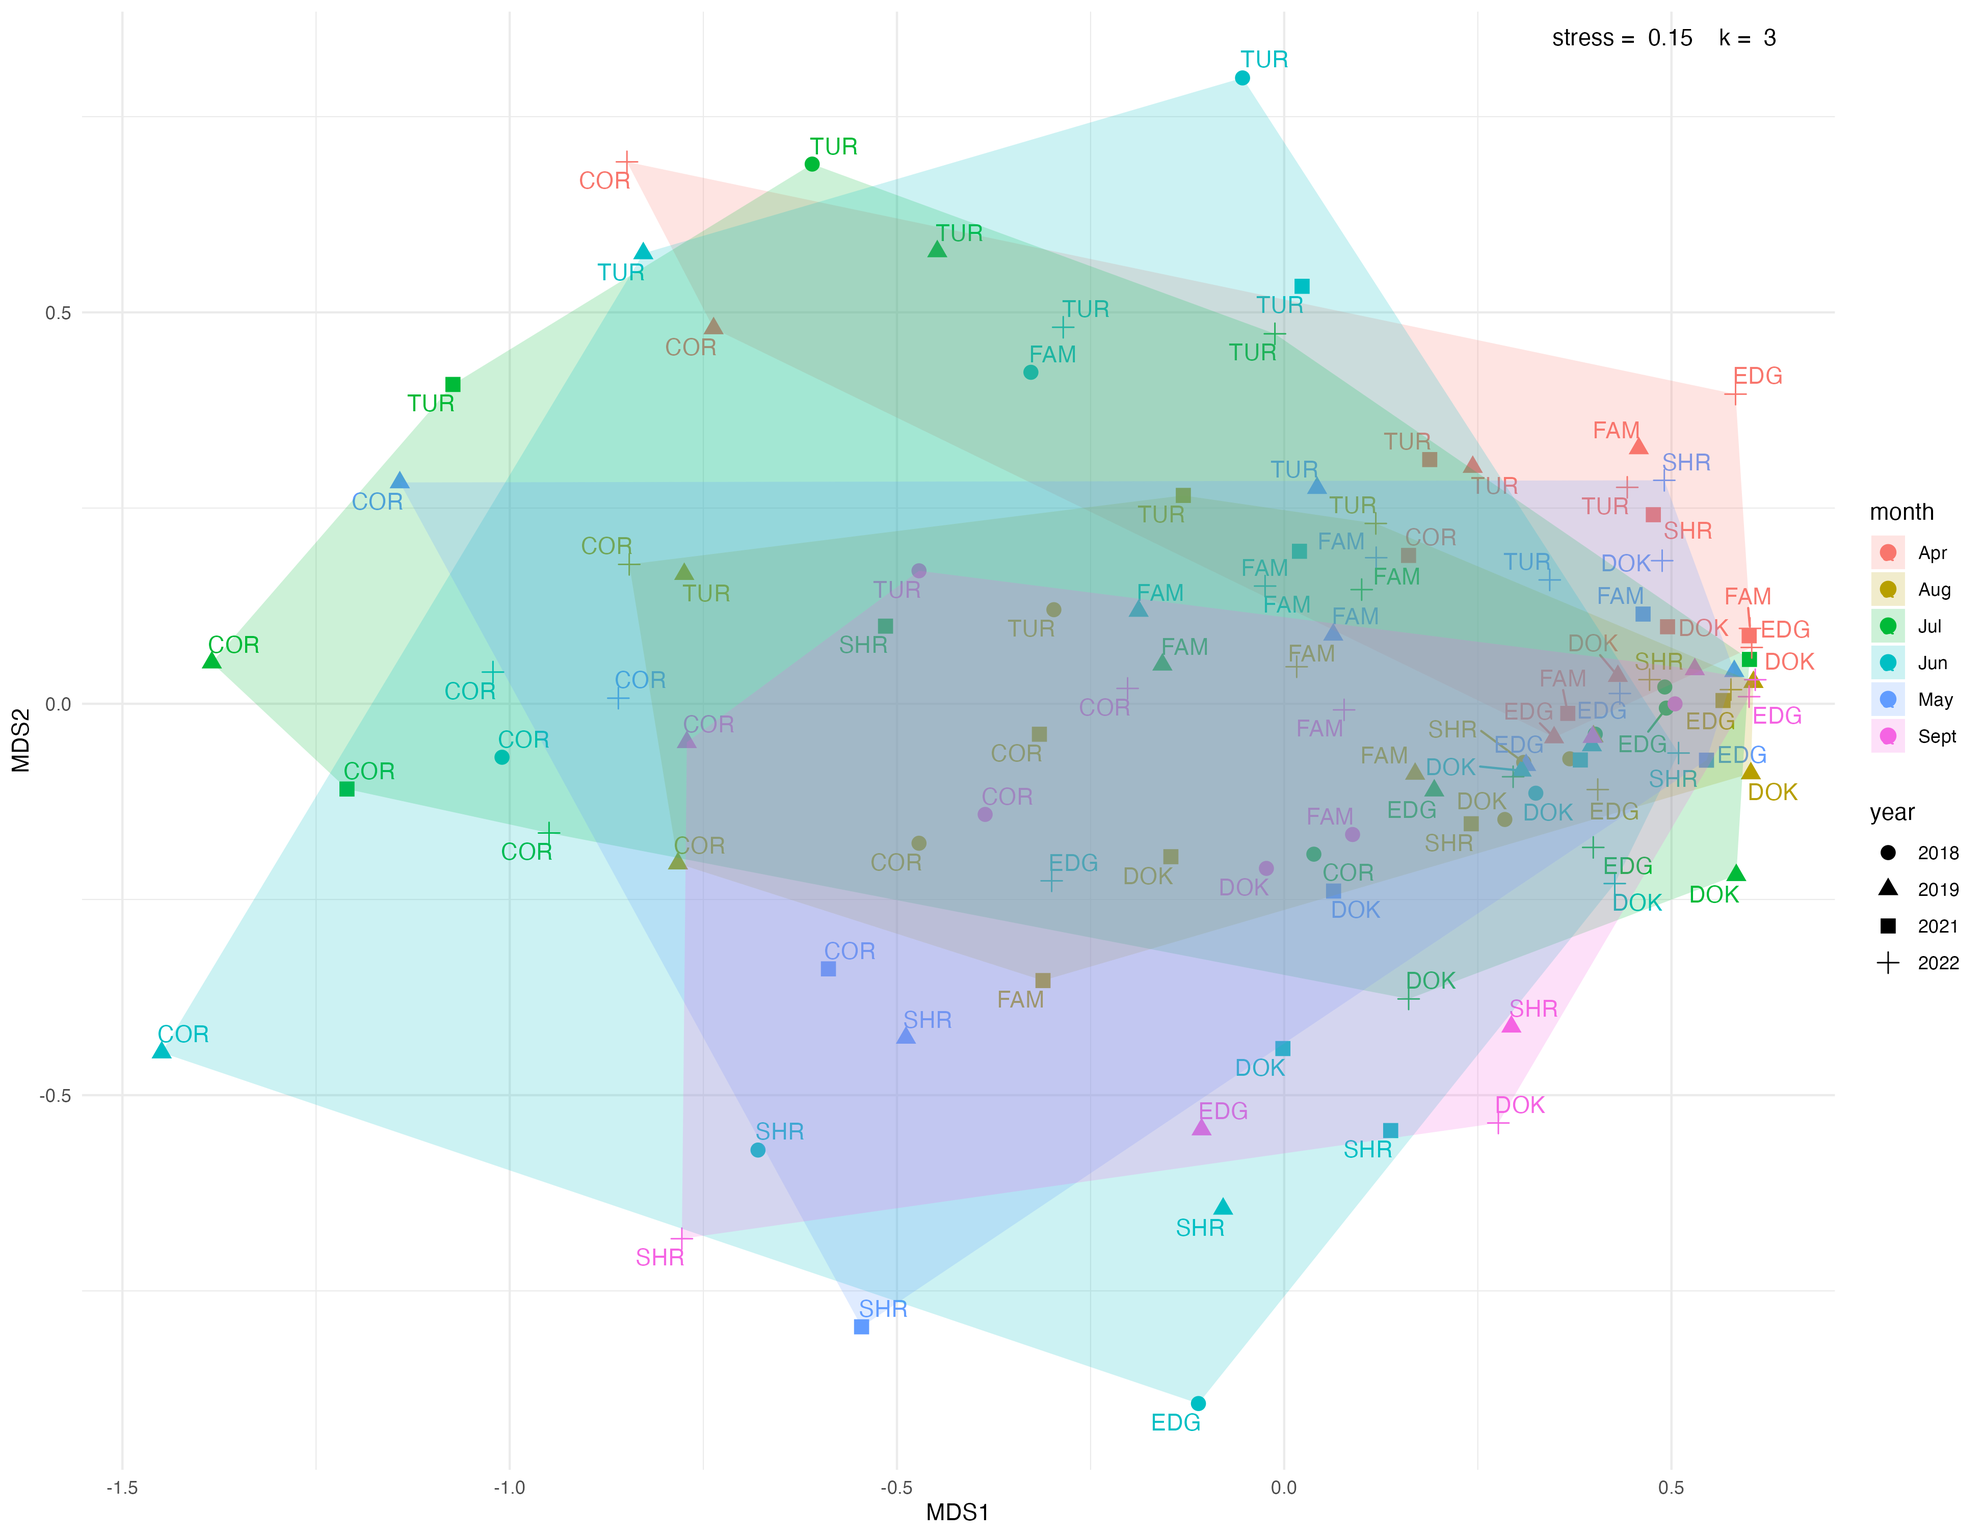
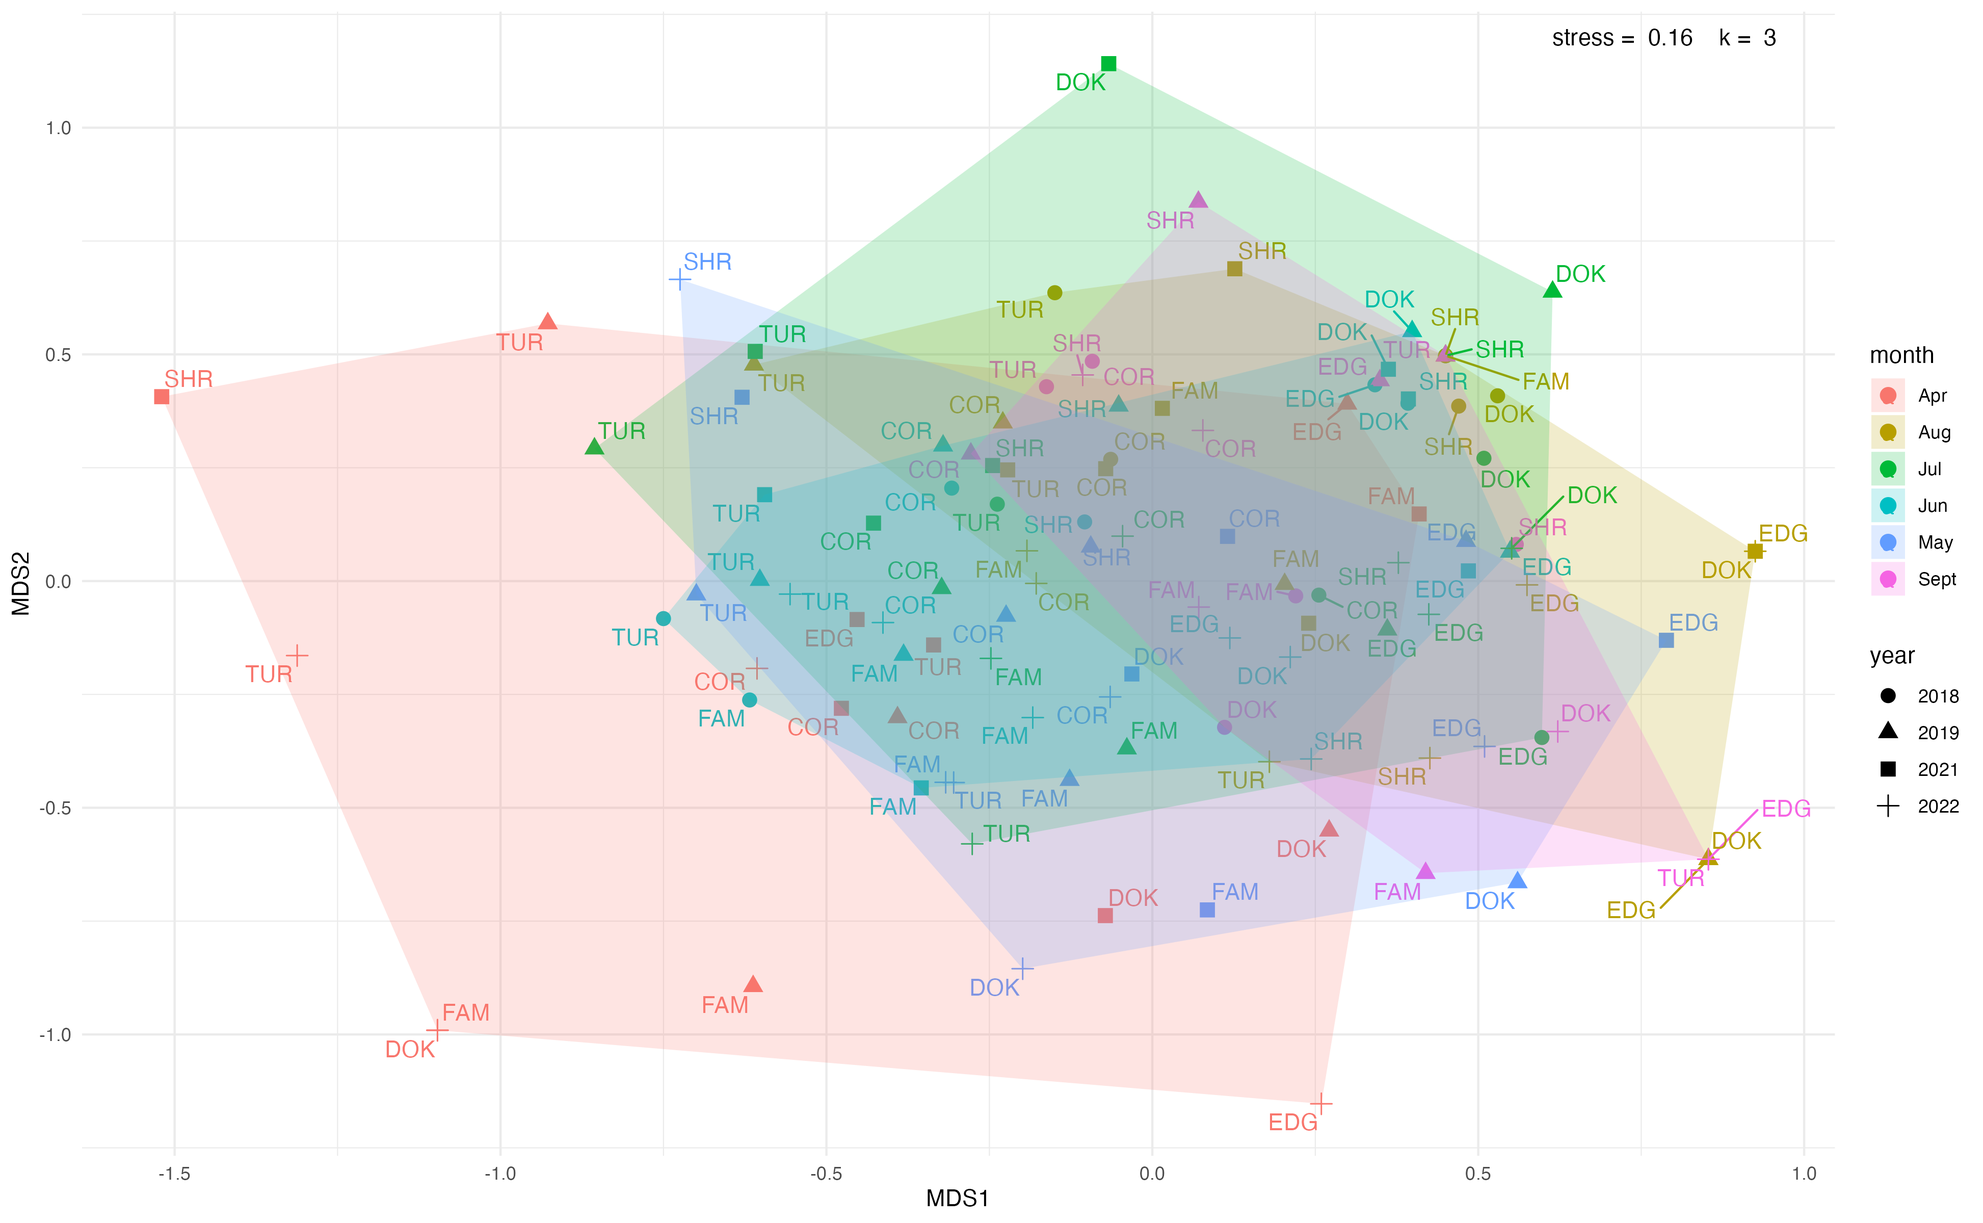
updated fish analysis with uncorrected matrix

diff --git a/docs/fish_results.html b/docs/fish_results.html
@@ -11,7 +11,7 @@
 
 <meta name="author" content="Emily Bishop" />
 
-<meta name="date" content="2024-03-13" />
+<meta name="date" content="2024-05-01" />
 
 <title>Fish Results</title>
 
@@ -248,6 +248,9 @@ $(document).ready(function () {
   <a href="index.html">Home</a>
 </li>
 <li>
+  <a href="data_matrices.html">Data Matrices</a>
+</li>
+<li>
   <a href="FD_overview.html">FD Overview</a>
 </li>
 <li>
@@ -270,7 +273,7 @@ $(document).ready(function () {
 
 <h1 class="title toc-ignore">Fish Results</h1>
 <h4 class="author">Emily Bishop</h4>
-<h4 class="date">2024-03-13</h4>
+<h4 class="date">2024-05-01</h4>
 
 </div>
 
@@ -290,7 +293,7 @@ continuous variable while the others are categorical.</p>
 <p>I used ordinations to view the differences between data points,
 specifically NMDS and PCoA. Both of these types of ordinations allow
 specification of a distance measure, which is good because euclidian
-distances aren’t appropriate for every data type (e.g. species
+distances aren’t appropriate for every data type (e.g., species
 abundances). These two methods differ in how they determine the axes.
 PCoAs use eigenanalysis, thereby imposing a linear relationship between
 samples, while NMDS uses an iterative, non-metric (rank-order), approach
@@ -301,8 +304,9 @@ for example abundance counts of different species.</p>
 <h2>NMDS representing abundances by site</h2>
 <p>NMDS is a distance based ordination technique. In this ordination,
 the space between the points represents the distance (dissimilarity)
-between them. Here I used Bray-curtis distances, a common method for
-abundance data.</p>
+between them. To create this plot, I used bray-curtis distances. I did
+not perform a square root transformation because I wanted the relatively
+rare and abundant species to effect the differences in communities.</p>
 <div class="figure">
 <img src="figures/fish_nmds_sites.png" alt="Fig 1. A graphical visualization of the variation in abundances of different species between sites. Core sites are displayed with the corresponding month for each data point while jubilee sites are displayed with their site code." width="100%" />
 <p class="caption">
@@ -312,10 +316,9 @@ corresponding month for each data point while jubilee sites are
 displayed with their site code.
 </p>
 </div>
-<p>This plot generally aligns with my impression of which sites should
-be similar, though there are some interesting patterns. The results of a
-PERMANOVA suggest that sites account for 41.4% of the variation in
-species composition (p = 0.001).</p>
+<p>I was expecting to see more of a separation between Cornet Bay and
+Family Tides and the others, but it does look like their centroids are
+fairly different.</p>
 </div>
 <div id="nmds-representing-abundances-by-month" class="section level2">
 <h2>NMDS representing abundances by month</h2>
@@ -326,9 +329,25 @@ Fig 2. A graphical visualization of the variation in abundances of
 different species between months.
 </p>
 </div>
-<p>There is clearly more variation between sites than months in these
-data. Months account for only 16.5% of the variation in species
-composition (p = 0.022).</p>
+<p>There is clearly a difference between April and other months
+sampled.</p>
+</div>
+<div id="permanova" class="section level2">
+<h2>PERMANOVA</h2>
+<p>Testing out a permanova on the nmds results. It looks like this
+method automatically conducts a square root transformation and Wisconsin
+double standardization??</p>
+<pre class="r"><code>load(here(&quot;data&quot;, &quot;fish.list.Rdata&quot;)) #object created in 02_tidy_data
+
+nmds &lt;- metaMDS(fish.list$abund , distance=&quot;bray&quot;, k= 3, trymax=1000, plot = FALSE)
+points &lt;- data.frame(nmds$points) %&gt;% 
+  mutate(sample = rownames(fish.list$abund)) %&gt;% 
+  separate_wider_delim(sample, delim = &quot;_&quot;, names = c(&quot;year&quot;, &quot;month&quot;, &quot;site&quot;), cols_remove = FALSE) 
+
+adonis2(fish.list$abund ~ points$site + points$month + points$year, method = &quot;bray&quot;)</code></pre>
+<p>Sites account for 12.5% of the variation of the variation in species
+composition (p = 0.001) and months account for just 8.1% (p =
+0.001).</p>
 </div>
 <div id="fish-trait-pcoas" class="section level2">
 <h2>Fish trait PCoAs</h2>
@@ -343,9 +362,8 @@ species
 </p>
 </div>
 <p>Generally this looks like what I would expect. The salmon are
-generally similar, as are the flatfish and the eelgrass-associated fish.
-Could investigate further by tube-snout are more similar to other forage
-fish than anchovy.</p>
+generally similar, as are the flatfish and the eelgrass-associated
+fish.</p>
 <div class="figure">
 <img src="figures/fish_pcoa2.png" alt="Fig 3. A slightly better looking graphical visualization of the variation in traits among fish species" width="100%" />
 <p class="caption">
@@ -353,48 +371,30 @@ Fig 3. A slightly better looking graphical visualization of the
 variation in traits among fish species
 </p>
 </div>
-<p>This plot shows the same points as the previous plot, broken into 7
-groupings. I determined the most parsimonious number of groupings by
-performing a hierarchical cluster analysis. In the future I could add
-some species labels or trait loadings to this plot to make it more
-informative.</p>
+<p>I determined the most parsimonious number of groupings by performing
+a hierarchical cluster analysis. In the future I could add some species
+labels or trait loadings to this plot to make it more informative.</p>
 </div>
 <div id="fish-functional-diversity-indices-at-core-sites"
 class="section level2">
 <h2>Fish functional diversity indices at
 <ins><strong>core</strong></ins> sites</h2>
 <div class="figure">
-<img src="figures/fish_FDcorepatch.png" alt="Fig 4. Results of the FD analysis for core sites" width="100%" />
+<img src="figures/fish_FDpatch.png" alt="Fig 4. Results of the FD analysis for core sites" width="100%" />
 <p class="caption">
 Fig 4. Results of the FD analysis for core sites
 </p>
 </div>
-<p>I then used the species abundance matrix with the trait matrix in the
-FD function to calculate the various indices. I think this looks pretty
-interesting!</p>
-<div class="figure">
-<img src="figures/fish_seasonalFDcorepatch.png" alt="Fig 5. Seasonal variation in results of the FD analysis for core sites" width="100%" />
-<p class="caption">
-Fig 5. Seasonal variation in results of the FD analysis for core sites
-</p>
-</div>
-<p>These plots were created with the same methods above but displayed by
-month to see how diversity varies by month. Will need to look at these
-more to decide if there are interesting things to explore, but an
-initial glance shows that sites appear to be most similar in June.</p>
-</div>
-<div id="fish-functional-diversity-indices-at-all-sites"
-class="section level2">
-<h2>Fish functional diversity indices at <ins><strong>all</strong></ins>
-sites</h2>
-<div class="figure">
-<img src="figures/fish_FDallpatch.png" alt="Fig 6. Results of the FD analysis for all sites in June only" width="100%" />
-<p class="caption">
-Fig 6. Results of the FD analysis for all sites in June only
-</p>
-</div>
-<p>There is probably a better way to display these data. This shows the
-snapshot of June data for all sites.</p>
+<p>Some interesting between-site differences, mostly with Cornet
+Bay.</p>
+<p>Next I plotted a monthly time series over each sample year. Note that
+if there are less than three species present in a given sampling event
+(grey horizontal line in the NumbSpecies plot) then some of the FD
+indices can’t be calculated.</p>
+<p><img src="figures/fish_2018seasonalFDpatch.png" width="100%" /><img src="figures/fish_2019seasonalFDpatch.png" width="100%" /><img src="figures/fish_2021seasonalFDpatch.png" width="100%" /><img src="figures/fish_2022seasonalFDpatch.png" width="100%" />
+need to look at these more to decide if there are interesting things to
+explore, but nothing huge is initally jumping out. Probably should break
+up by index and facet by year.</p>
 </div>
 
 

diff --git a/docs/index.html b/docs/index.html
@@ -11,7 +11,7 @@
 
 <meta name="author" content="Emily Bishop" />
 
-<meta name="date" content="2024-04-30" />
+<meta name="date" content="2024-05-01" />
 
 <title>Salish Sea Functional Diversity Analysis</title>
 
@@ -274,7 +274,7 @@ $(document).ready(function () {
 <h1 class="title toc-ignore">Salish Sea Functional Diversity
 Analysis</h1>
 <h4 class="author">Emily Bishop</h4>
-<h4 class="date">2024-04-30</h4>
+<h4 class="date">2024-05-01</h4>
 
 </div>
 
@@ -284,6 +284,62 @@ Analysis</h1>
 <p>This website will contain the most up-to-date information on methods
 and preliminary results for Chapter 2 of my dissertation, an exploration
 of the functional diversity of fish and birds in the Salish Sea.</p>
+</div>
+<div id="proposed-approach-from-dissertation-proposal"
+class="section level2">
+<h2>Proposed Approach (from dissertation proposal)</h2>
+<p>To relate site characteristics to species abundances and traits, I
+propose conducting a combined RLQ and fourth-corner analysis (Dray et
+al., 2014). In this method, R represents environmental descriptors for
+each site (shoreline armor extent and urbanization metrics), L
+represents a matrix that characterizes species abundances by site, and Q
+represents the matrix of functional traits by species (Dolédec et al.,
+1996; Legendre et al., 1997). To use this approach, I will fit a
+predictive model in which species abundances (L) are a function of
+environmental (R) and species trait (Q) data, including an interaction
+of environment and traits. The interaction is the fourth-corner aspect
+of this analysis, which accounts for differences in the response of
+species with different traits to environmental variation.</p>
+<p>To calculate functional diversity indices for each survey site, I
+will first calculate distances between the L and Q input matrices using
+Gower’s method to create a species x species matrix (Mouillot et al.,
+2014). Gower’s distance measure enables the use of both continuous and
+categorical traits (Gower, 1971). Categorical variables are first
+re-coded as dummy integers, then means and variances of all variables
+are calculated and standardized by the dummy variables to account for
+the fact that the variance between the coded integers is higher than the
+variance of the continuous variables, and finally Euclidean distances
+are calculated between the resulting values (Gower, 1971; Greenacre and
+Primicerio, 2013). I will then conduct multidimensional scaling of the
+species x species matrix with a principle coordinates analysis (PCoA) to
+construct a functional trait space. From the species x species matrix,
+and the axes of the PCoA, I will calculate a number of diversity indices
+including functional evenness, richness, and divergence (McKinley et
+al., 2022; Villéger et al., 2008). Functional richness represents the
+area within the trait space occupied by the assemblage, evenness
+describes how equally species are distributed within the trait space,
+and divergence accounts for the distances of species away from the
+center of the trait space (Laliberté et al. 2022). Collectively, these
+indices represent the breadth of ecological niches occupied by the
+species represented, which indicates how resilient communities are to
+disturbance (Douglas et al., 2017; Granda et al., 2018). I will compare
+the suite of functional diversity indices between sites with a
+Permutational Multivariate Analysis of Variance (PERMANOVA).</p>
+<p>To associate community diversity with the features that comprise
+local site conditions, I will conduct a correspondence analysis (CA) on
+the L matrix to generate scores for relatedness of species abundances. I
+will then conduct a Principal Components Analysis (PCA) with the R and Q
+matrices, using scores from the CA to weight the rows and columns, which
+links the abundance matrix to the others. I will then combine
+ordinations with the RLQ method to maximize covariance, thereby
+characterizing the global effect of environmental variables on
+functional traits. Next, I will assess the significance of bivariate
+trait and environmental variable associations with the fourth-corner
+method, which involves sequential testing of significance between models
+that separately fix traits and environmental conditions, then adjusting
+final p-values to account for type I error (Dray et al., 2014). This
+accounts for the fact that species with different traits will respond
+differently to variation in environmental variables.</p>
 </div>
 <div id="major-analysis-decisions" class="section level2">
 <h2>Major analysis decisions</h2>
@@ -307,6 +363,8 @@ approach??</p>
 <p><strong>Each row in the species abundance matrix will represent a
 sample day.</strong> Instead of averaging abundances across months to
 get a row for each site</p>
+<p>Does anything need to be done to account for spatial
+collinearity?</p>
 </div>
 
 

diff --git a/docs/data_matrices.html b/docs/data_matrices.html
@@ -11,7 +11,7 @@
 
 <meta name="author" content="Emily Bishop" />
 
-<meta name="date" content="2024-04-30" />
+<meta name="date" content="2024-05-01" />
 
 <title>Data Matrices</title>
 
@@ -275,7 +275,7 @@ $(document).ready(function () {
 
 <h1 class="title toc-ignore">Data Matrices</h1>
 <h4 class="author">Emily Bishop</h4>
-<h4 class="date">2024-04-30</h4>
+<h4 class="date">2024-05-01</h4>
 
 </div>
 
@@ -362,9 +362,9 @@ either way. For this reason I also didn’t remove rare species.</p>
 <h3>Birds</h3>
 <p>Same approach as for fish, but we only have two years of data and
 didn’t always sample at every site.</p>
-<p><strong>Data transformations</strong>: Applied a square root
-transformation so that relatively rare or abundant species don’t have an
-outsized impact. Did NOT remove rare species.</p>
+<p><strong>Data transformations</strong>: No data transformations at
+this stage, because FD indices rely on information about the presence of
+relatively rare and abundant species.</p>
 <div data-pagedtable="false">
 <script data-pagedtable-source type="application/json">
 {"columns":[{"label":[""],"name":["_rn_"],"type":[""],"align":["left"]},{"label":["AMRO"],"name":[1],"type":["dbl"],"align":["right"]},{"label":["BAEA"],"name":[2],"type":["dbl"],"align":["right"]},{"label":["BARS"],"name":[3],"type":["dbl"],"align":["right"]},{"label":["BEKI"],"name":[4],"type":["dbl"],"align":["right"]},{"label":["BUFF"],"name":[5],"type":["dbl"],"align":["right"]},{"label":["CATE"],"name":[6],"type":["dbl"],"align":["right"]},{"label":["CCGO"],"name":[7],"type":["dbl"],"align":["right"]},{"label":["COBR"],"name":[8],"type":["dbl"],"align":["right"]},{"label":["COMU"],"name":[9],"type":["dbl"],"align":["right"]},{"label":["CORA"],"name":[10],"type":["dbl"],"align":["right"]},{"label":["DCCO"],"name":[11],"type":["dbl"],"align":["right"]},{"label":["EUST"],"name":[12],"type":["dbl"],"align":["right"]},{"label":["GBHE"],"name":[13],"type":["dbl"],"align":["right"]},{"label":["GWGU"],"name":[14],"type":["dbl"],"align":["right"]},{"label":["HERG"],"name":[15],"type":["dbl"],"align":["right"]},{"label":["HOGR"],"name":[16],"type":["dbl"],"align":["right"]},{"label":["HOSP"],"name":[17],"type":["dbl"],"align":["right"]},{"label":["MALL"],"name":[18],"type":["dbl"],"align":["right"]},{"label":["OSPR"],"name":[19],"type":["dbl"],"align":["right"]},{"label":["PECO"],"name":[20],"type":["dbl"],"align":["right"]},{"label":["PIGU"],"name":[21],"type":["dbl"],"align":["right"]},{"label":["PUMA"],"name":[22],"type":["dbl"],"align":["right"]},{"label":["RODO"],"name":[23],"type":["dbl"],"align":["right"]},{"label":["RUHU"],"name":[24],"type":["dbl"],"align":["right"]},{"label":["STJA"],"name":[25],"type":["dbl"],"align":["right"]},{"label":["SUSC"],"name":[26],"type":["dbl"],"align":["right"]},{"label":["TUVU"],"name":[27],"type":["dbl"],"align":["right"]},{"label":["WEGR"],"name":[28],"type":["dbl"],"align":["right"]}],"data":[{"1":"0.0","2":"0.00","3":"0.00","4":"0.33","5":"0","6":"1.60","7":"0","8":"1.14","9":"0.00","10":"0","11":"0","12":"0","13":"0.67","14":"0.0","15":"0.83","16":"0","17":"0.00","18":"0","19":"0.33","20":"0","21":"0.0","22":"0.67","23":"0","24":"0","25":"0","26":"0","27":"0","28":"0","_rn_":"2021_Jun_DOK"},{"1":"0.0","2":"0.00","3":"0.00","4":"0.00","5":"0","6":"0.00","7":"0","8":"0.33","9":"0.33","10":"0","11":"0","12":"0","13":"0.00","14":"0.5","15":"0.00","16":"0","17":"0.00","18":"0","19":"0.00","20":"0","21":"1.6","22":"0.00","23":"0","24":"0","25":"0","26":"0","27":"0","28":"0","_rn_":"2021_Jun_EDG"},{"1":"0.0","2":"0.33","3":"2.00","4":"0.00","5":"0","6":"0.00","7":"0","8":"0.67","9":"0.00","10":"0","11":"0","12":"0","13":"0.00","14":"0.0","15":"0.00","16":"0","17":"0.33","18":"0","19":"0.00","20":"0","21":"0.0","22":"0.00","23":"1","24":"0","25":"0","26":"0","27":"0","28":"0","_rn_":"2021_Jun_FAM"},{"1":"0.0","2":"0.00","3":"0.00","4":"0.33","5":"0","6":"0.33","7":"0","8":"2.83","9":"0.00","10":"0","11":"0","12":"0","13":"0.67","14":"0.0","15":"0.75","16":"0","17":"0.00","18":"0","19":"0.00","20":"0","21":"0.0","22":"0.00","23":"0","24":"0","25":"0","26":"0","27":"0","28":"0","_rn_":"2021_Jun_SHR"},{"1":"0.5","2":"0.33","3":"1.33","4":"0.00","5":"0","6":"0.00","7":"0","8":"0.00","9":"0.00","10":"0","11":"0","12":"0","13":"0.00","14":"0.0","15":"0.00","16":"0","17":"0.00","18":"0","19":"0.00","20":"0","21":"0.0","22":"0.00","23":"0","24":"0","25":"0","26":"0","27":"0","28":"0","_rn_":"2021_Jun_TUR"},{"1":"0.0","2":"0.00","3":"1.00","4":"0.00","5":"0","6":"0.00","7":"0","8":"0.00","9":"0.00","10":"0","11":"0","12":"0","13":"0.33","14":"0.0","15":"0.00","16":"0","17":"0.00","18":"0","19":"0.00","20":"0","21":"0.0","22":"0.00","23":"0","24":"0","25":"0","26":"0","27":"0","28":"0","_rn_":"2021_Jul_DOK"}],"options":{"columns":{"min":{},"max":[10]},"rows":{"min":[10],"max":[10]},"pages":{}}}
